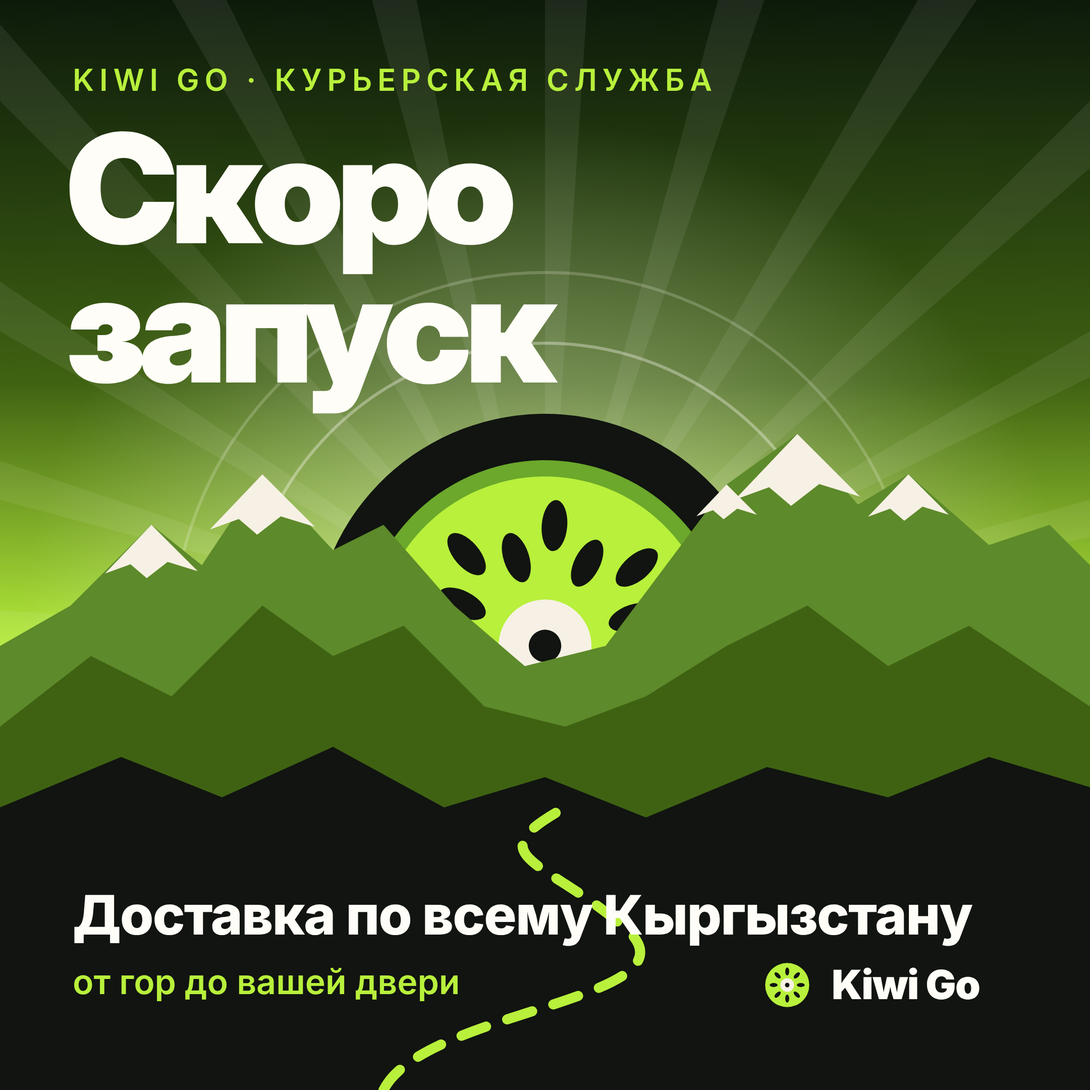
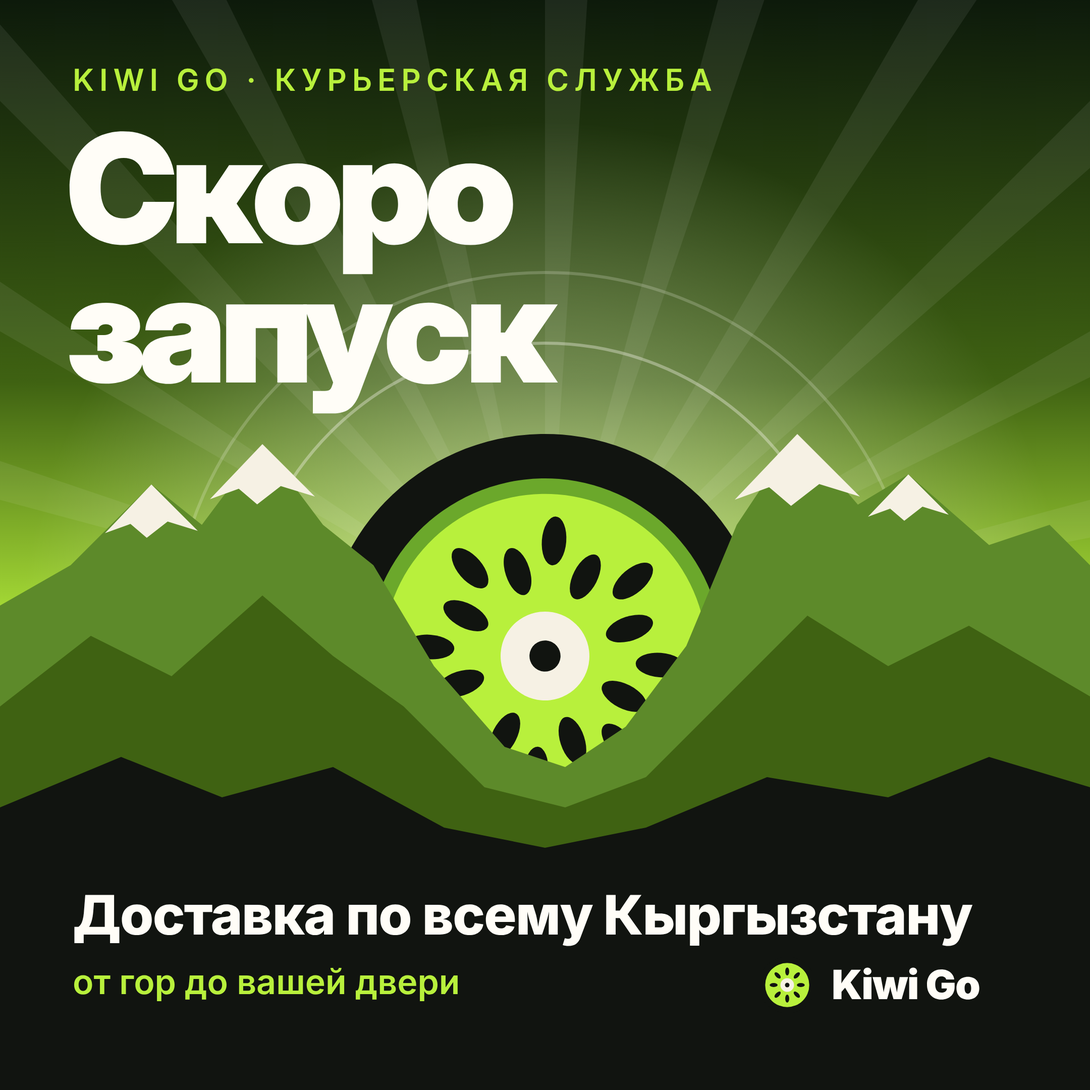
Add 5 creative Kiwi Go coming-soon posts + contact sheet
Claude-Session: https://claude.ai/code/session_01Lm7ffAAt72SNExNHGXPfa4

diff --git a/kiwi-go-soon/creative/build.js b/kiwi-go-soon/creative/build.js
@@ -63,9 +63,9 @@ const designs = [];
 {
   // mountain ridge polyline from a list of [x,y]; closed to the bottom
   const ridge = (pts, fill) => `<path d="M0 1080 L${pts.map(p => p.join(' ')).join(' L')} L1080 1080 Z" fill="${fill}"/>`;
-  const back = [[0,640],[70,600],[150,520],[200,560],[260,470],[330,545],[380,520],[450,600],[520,660],[600,640],[660,560],[720,480],[790,430],[850,500],[900,470],[980,540],[1040,520],[1080,560]];
-  const mid = [[0,720],[90,650],[170,690],[260,600],[330,650],[400,620],[480,700],[560,720],[640,690],[720,640],[800,600],[880,660],[960,620],[1080,700]];
-  const front = [[0,800],[120,750],[220,790],[330,740],[440,800],[540,770],[640,810],[760,760],[880,790],[980,750],[1080,780]];
+  const back = [[0,600],[70,560],[150,480],[200,520],[260,440],[320,520],[370,560],[430,660],[500,740],[560,760],[620,720],[680,640],[730,520],[790,430],[850,500],[900,470],[980,540],[1040,520],[1080,560]];
+  const mid = [[0,700],[90,630],[170,670],[260,590],[330,650],[400,700],[480,780],[560,800],[640,770],[720,690],[800,610],[880,660],[960,620],[1080,690]];
+  const front = [[0,800],[120,750],[220,790],[330,760],[440,820],[540,840],[640,820],[760,770],[880,790],[980,750],[1080,780]];
   // snow caps on back ridge peaks
   const cap = (x, y, w) => `<path d="M${x} ${y} L${x - w} ${y + w * 1.05} L${x - w * 0.45} ${y + w * 0.85} L${x - w * 0.1} ${y + w * 1.15} L${x + w * 0.35} ${y + w * 0.8} L${x + w} ${y + w * 1.0} Z" fill="${C.cream}"/>`;
   // rays
@@ -76,7 +76,7 @@ const designs = [];
     rays += `<path d="M540 640 L${540 + 1400 * Math.cos(a)} ${640 + 1400 * Math.sin(a)} L${540 + 1400 * Math.cos(a2)} ${640 + 1400 * Math.sin(a2)} Z"/>`;
   }
   // winding road on front layer
-  const road = 'M380 1080 C 420 1000, 700 990, 620 920 S 470 850, 560 800';
+  const road = 'M660 1080 C 640 1010, 620 990, 600 940 S 520 880, 545 845';
   designs.push({
     name: 'Рассвет над Тянь-Шанем',
     html: page('Kiwi Go — 01', `
@@ -95,13 +95,12 @@ const designs = [];
   <circle cx="540" cy="640" r="300" fill="none" stroke="${C.paper}" stroke-opacity="0.35" stroke-width="3"/>
   <circle cx="540" cy="640" r="370" fill="none" stroke="${C.paper}" stroke-opacity="0.2" stroke-width="3"/>
 </svg>
-${logo(460, 540, 640, -18)}
+${logo(440, 540, 650, -18)}
 <svg class="scene" width="1080" height="1080">
   ${ridge(back, '#5d8a2a')}
-  ${cap(150,520,46)}${cap(260,470,52)}${cap(790,430,62)}${cap(900,470,40)}${cap(720,480,30)}
+  ${cap(150,480,46)}${cap(260,440,52)}${cap(790,430,62)}${cap(900,470,40)}
   ${ridge(mid, C.green)}
   ${ridge(front, C.ink)}
-  <path d="${road}" fill="none" stroke="${C.lime}" stroke-width="10" stroke-linecap="round" stroke-dasharray="26 22"/>
 </svg>
 <div class="t" style="left:72px;top:64px;font-weight:600;font-size:30px;letter-spacing:0.18em;color:${C.lime}">KIWI GO · КУРЬЕРСКАЯ СЛУЖБА</div>
 <div class="t D" style="left:66px;top:118px;font-weight:900;font-size:150px;letter-spacing:-0.045em;color:${C.paper};line-height:0.92">Скоро<br>запуск</div>
@@ -142,8 +141,8 @@ ${wordmark(752, 948, C.paper, 56, 40)}
     <polygon points="${cx - s},${cy - s} ${cx - s + 40},${cy - s + 40} ${cx - s + 40},${cy + s - 40} ${cx - s},${cy + s}" fill="#8e6638" stroke-width="5"/>
     <!-- fragile stamp on right flap -->
     <g transform="translate(${cx + s + f / 2 + 4} ${cy}) rotate(90)" stroke="none">
-      <rect x="-118" y="-30" width="236" height="60" rx="8" fill="none" stroke="#B3261E" stroke-width="5"/>
-      <text x="0" y="13" text-anchor="middle" font-family="Inter" font-weight="900" font-size="36" fill="#B3261E" letter-spacing="2">ОСТОРОЖНО</text>
+      <rect x="-128" y="-28" width="256" height="56" rx="8" fill="none" stroke="#B3261E" stroke-width="5"/>
+      <text x="0" y="11" text-anchor="middle" font-family="Inter" font-weight="900" font-size="30" fill="#B3261E" letter-spacing="1">ОСТОРОЖНО</text>
     </g>
   </g>
 </svg>
@@ -151,46 +150,37 @@ ${logo(300, cx + 8, cy + 6, 12, 'filter:drop-shadow(0 18px 0 rgba(17,20,16,0.35)
 <div class="t D" style="left:64px;top:56px;font-weight:900;font-size:128px;letter-spacing:-0.045em">Что внутри?</div>
 <div class="t D" style="left:64px;top:920px;font-weight:900;font-size:92px;letter-spacing:-0.04em">Скоро узнаете.</div>
 <div class="t" style="left:68px;top:1022px;font-weight:700;font-size:28px;letter-spacing:0.02em;opacity:0.75">Kiwi Go — курьерская служба</div>
-<div class="abs" style="right:56px;top:72px;width:150px;height:150px;border-radius:50%;background:${C.ink};color:${C.lime};display:flex;align-items:center;justify-content:center;text-align:center;font-weight:900;font-size:26px;line-height:1.08;transform:rotate(12deg)">ОТКРОЙТЕ<br>ПЕРВЫМИ</div>
+<div class="abs" style="right:48px;top:60px;width:176px;height:176px;border-radius:50%;background:${C.ink};color:${C.lime};display:flex;align-items:center;justify-content:center;text-align:center;font-weight:900;font-size:26px;line-height:1.08;transform:rotate(12deg)">ОТКРОЙТЕ<br>ПЕРВЫМИ</div>
 `, C.lime),
   });
 }
 
-// ===== 03 — Kinetic type, wheel at speed =====
+// ===== 03 — Kinetic type: the wheel paints the word =====
 {
-  const rows = [
-    { t: 'СКОРО СКОРО СКОРО', x: -60, fill: false },
-    { t: 'СКОРО СКОРО СКОРО', x: -320, fill: false },
-    { t: 'СКОРО СКОРО СКОРО', x: -140, fill: true },
-    { t: 'СКОРО СКОРО СКОРО', x: -420, fill: false },
-  ];
-  const rowH = 186, y0 = 30;
-  const rowHtml = rows.map((r, i) => `<div class="t D row ${r.fill ? 'fill' : ''}" style="left:${r.x}px;top:${y0 + i * rowH}px">${r.t}</div>`).join('');
-  const wcx = 800, wd = 400, wcy = 840 - wd / 2 + 8; // wheel sits on the band
-  let lines = '';
-  const L = [[-150, 210, 22, C.lime], [-90, 300, 12, C.paper], [-20, 260, 28, C.lime], [50, 330, 12, C.paper], [120, 220, 22, C.lime]];
-  for (const [dy, len, h, c] of L) {
-    const y = wcy + dy, dx = Math.sqrt(Math.max(0, (wd / 2) ** 2 - dy ** 2));
-    const end = wcx - dx - 36;
-    lines += `<rect x="${end - len}" y="${y - h / 2}" width="${len}" height="${h}" rx="${h / 2}" fill="${c}"/>`;
-  }
+  const rowH = 186, y0 = 24;
+  const xs = [-60, -330, 24, -430];
+  const wcx = 860, wd = 310;
+  const fillRow = 2;
+  let rowHtml = '';
+  xs.forEach((x, i) => {
+    rowHtml += `<div class="t D row" style="left:${x}px;top:${y0 + i * rowH}px">СКОРО СКОРО СКОРО</div>`;
+    if (i === fillRow) rowHtml += `<div class="t D row fill" style="left:${x}px;top:${y0 + i * rowH}px;clip-path:inset(0 ${2400 - (wcx - x)}px 0 0)">СКОРО СКОРО СКОРО</div>`;
+  });
+  const wcy = y0 + fillRow * rowH + 104;
   designs.push({
-    name: 'Скорость шрифта',
+    name: 'Колесо красит слово',
     html: page('Kiwi Go — 03', `
 ${rowHtml}
 <svg class="scene" width="1080" height="1080">
+  <circle cx="${wcx}" cy="${wcy}" r="${wd / 2 + 22}" fill="${C.ink}"/>
   <rect x="0" y="840" width="1080" height="240" fill="${C.lime}"/>
-  <g fill="${C.ink}">${[0,1,2,3,4,5,6,7].map(i => `<rect x="${i * 150 - 40}" y="852" width="80" height="10" rx="5"/>`).join('')}</g>
-  <rect x="${wcx - wd / 2 - 40}" y="${wcy - wd / 2 - 40}" width="0" height="0"/>
-  <circle cx="${wcx}" cy="${wcy}" r="${wd / 2 + 26}" fill="${C.ink}"/>
-  ${lines}
 </svg>
 ${logo(wd, wcx, wcy, -32)}
-<div class="t D" style="left:64px;top:900px;font-weight:900;font-size:84px;letter-spacing:-0.04em;color:${C.ink}">Kiwi Go скоро в пути</div>
-<div class="t" style="left:68px;top:1000px;font-weight:700;font-size:34px;color:${C.ink}">Курьерская доставка по всему Кыргызстану</div>
+<div class="t D" style="left:64px;top:888px;font-weight:900;font-size:88px;letter-spacing:-0.04em;color:${C.ink}">Kiwi Go скоро в пути</div>
+<div class="t" style="left:68px;top:996px;font-weight:700;font-size:34px;color:${C.ink}">Курьерская доставка по всему Кыргызстану</div>
 `, C.ink, `
-.row{font-weight:900;font-style:italic;font-size:200px;letter-spacing:-0.035em;color:transparent;-webkit-text-stroke:3px ${C.lime};line-height:1}
-.row.fill{color:${C.lime};-webkit-text-stroke:0}
+.row{width:2400px;font-weight:900;font-style:italic;font-size:200px;letter-spacing:-0.035em;color:transparent;-webkit-text-stroke:3px ${C.lime};line-height:1}
+.row.fill{color:${C.lime};-webkit-text-stroke:3px ${C.lime}}
 `),
   });
 }
@@ -284,10 +274,10 @@ ${logo(wd, wcx, wcy, -32)}
   <div class="rule"></div>
   <div class="foot">Доставка по всему Кыргызстану</div>
 </div>
-<svg class="abs" style="left:640px;top:96px" width="360" height="200" viewBox="0 0 360 200"><path d="M100 104 C 180 30, 260 40, 360 0" fill="none" stroke="${C.cream}" stroke-width="5"/></svg>
-<div class="abs sticker"><div>Скоро<br>в продаже</div></div>
+<svg class="abs" style="left:640px;top:96px" width="360" height="200" viewBox="0 0 360 200"><path d="M113 140 C 170 50, 260 40, 360 0" fill="none" stroke="${C.cream}" stroke-width="5"/></svg>
+<div class="abs sticker"><div>Скоро<br>запуск!</div></div>
 `, C.peel, `
-.tag{left:150px;top:170px;width:700px;background:${C.paper};border-radius:36px;padding:56px 60px 50px;transform:rotate(-4deg);box-shadow:0 22px 0 rgba(17,20,16,0.35)}
+.tag{left:150px;top:190px;width:700px;background:${C.paper};border-radius:36px;padding:56px 60px 50px;transform:rotate(-4deg);box-shadow:0 22px 0 rgba(17,20,16,0.35)}
 .tag .hole{position:absolute;right:56px;top:46px;width:44px;height:44px;border-radius:50%;background:${C.peel};box-shadow:inset 0 0 0 7px ${C.sand}}
 .row1{display:flex;gap:18px;align-items:baseline;font-size:30px}
 .row1 span:first-child{font-weight:800;letter-spacing:0.14em;text-transform:uppercase;font-size:24px;color:${C.peel}}
@@ -297,8 +287,8 @@ ${logo(wd, wcx, wcy, -32)}
 .lab{font-weight:800;letter-spacing:0.14em;text-transform:uppercase;font-size:24px;color:${C.peel}}
 .price{font-weight:900;font-size:76px;letter-spacing:-0.035em;line-height:1;margin-top:12px}
 .foot{font-weight:700;font-size:32px}
-.sticker{left:690px;top:640px;width:250px;height:250px;border-radius:50%;background:${C.lime};border:7px solid ${C.ink};display:flex;align-items:center;justify-content:center;text-align:center;transform:rotate(12deg);box-shadow:0 14px 0 rgba(17,20,16,0.35)}
-.sticker div{font-weight:900;font-size:46px;letter-spacing:-0.03em;line-height:1.02}
+.sticker{left:740px;top:740px;width:240px;height:240px;border-radius:50%;background:${C.lime};border:7px solid ${C.ink};display:flex;align-items:center;justify-content:center;text-align:center;transform:rotate(12deg);box-shadow:0 14px 0 rgba(17,20,16,0.35)}
+.sticker div{font-weight:900;font-size:52px;letter-spacing:-0.03em;line-height:1.02}
 `),
   });
 }

diff --git a/kiwi-go-soon/creative/html/kiwi-go-creative-03.html b/kiwi-go-soon/creative/html/kiwi-go-creative-03.html
@@ -12,19 +12,16 @@ body{font-family:'Inter',sans-serif;color:#111410;position:relative;-webkit-font
 .wm span{font-weight:900;letter-spacing:-0.02em;line-height:1}
 svg.scene{position:absolute;left:0;top:0}
 
-.row{font-weight:900;font-style:italic;font-size:200px;letter-spacing:-0.035em;color:transparent;-webkit-text-stroke:3px #B8F03C;line-height:1}
-.row.fill{color:#B8F03C;-webkit-text-stroke:0}
+.row{width:2400px;font-weight:900;font-style:italic;font-size:200px;letter-spacing:-0.035em;color:transparent;-webkit-text-stroke:3px #B8F03C;line-height:1}
+.row.fill{color:#B8F03C;-webkit-text-stroke:3px #B8F03C}
 
 </style></head><body>
-<div class="t D row " style="left:-60px;top:30px">СКОРО СКОРО СКОРО</div><div class="t D row " style="left:-320px;top:216px">СКОРО СКОРО СКОРО</div><div class="t D row fill" style="left:-140px;top:402px">СКОРО СКОРО СКОРО</div><div class="t D row " style="left:-420px;top:588px">СКОРО СКОРО СКОРО</div>
+<div class="t D row" style="left:-60px;top:24px">СКОРО СКОРО СКОРО</div><div class="t D row" style="left:-330px;top:210px">СКОРО СКОРО СКОРО</div><div class="t D row" style="left:24px;top:396px">СКОРО СКОРО СКОРО</div><div class="t D row fill" style="left:24px;top:396px;clip-path:inset(0 1564px 0 0)">СКОРО СКОРО СКОРО</div><div class="t D row" style="left:-430px;top:582px">СКОРО СКОРО СКОРО</div>
 <svg class="scene" width="1080" height="1080">
+  <circle cx="860" cy="500" r="177" fill="#111410"/>
   <rect x="0" y="840" width="1080" height="240" fill="#B8F03C"/>
-  <g fill="#111410"><rect x="-40" y="852" width="80" height="10" rx="5"/><rect x="110" y="852" width="80" height="10" rx="5"/><rect x="260" y="852" width="80" height="10" rx="5"/><rect x="410" y="852" width="80" height="10" rx="5"/><rect x="560" y="852" width="80" height="10" rx="5"/><rect x="710" y="852" width="80" height="10" rx="5"/><rect x="860" y="852" width="80" height="10" rx="5"/><rect x="1010" y="852" width="80" height="10" rx="5"/></g>
-  <rect x="560" y="408" width="0" height="0"/>
-  <circle cx="800" cy="648" r="226" fill="#111410"/>
-  <rect x="421.71243444677043" y="487" width="210" height="22" rx="11" fill="#B8F03C"/><rect x="285.39428900508244" y="552" width="300" height="12" rx="6" fill="#FFFDF7"/><rect x="305.00251257867603" y="614" width="260" height="28" rx="14" fill="#B8F03C"/><rect x="240.35083268962921" y="692" width="330" height="12" rx="6" fill="#FFFDF7"/><rect x="384" y="757" width="220" height="22" rx="11" fill="#B8F03C"/>
 </svg>
-<svg class="abs" width="400" height="400" viewBox="-100 -100 200 200" style="left:600px;top:448px;transform:rotate(-32deg);"><circle r="100" fill="#111410"/><circle r="80" fill="#6BA82B"/><circle r="73" fill="#B8F03C"/><g fill="#111410"><ellipse cx="0" cy="-40" rx="5.5" ry="11" transform="rotate(0)"/><ellipse cx="0" cy="-52" rx="5.5" ry="11" transform="rotate(22.5)"/><ellipse cx="0" cy="-40" rx="5.5" ry="11" transform="rotate(45)"/><ellipse cx="0" cy="-52" rx="5.5" ry="11" transform="rotate(67.5)"/><ellipse cx="0" cy="-40" rx="5.5" ry="11" transform="rotate(90)"/><ellipse cx="0" cy="-52" rx="5.5" ry="11" transform="rotate(112.5)"/><ellipse cx="0" cy="-40" rx="5.5" ry="11" transform="rotate(135)"/><ellipse cx="0" cy="-52" rx="5.5" ry="11" transform="rotate(157.5)"/><ellipse cx="0" cy="-40" rx="5.5" ry="11" transform="rotate(180)"/><ellipse cx="0" cy="-52" rx="5.5" ry="11" transform="rotate(202.5)"/><ellipse cx="0" cy="-40" rx="5.5" ry="11" transform="rotate(225)"/><ellipse cx="0" cy="-52" rx="5.5" ry="11" transform="rotate(247.5)"/><ellipse cx="0" cy="-40" rx="5.5" ry="11" transform="rotate(270)"/><ellipse cx="0" cy="-52" rx="5.5" ry="11" transform="rotate(292.5)"/><ellipse cx="0" cy="-40" rx="5.5" ry="11" transform="rotate(315)"/><ellipse cx="0" cy="-52" rx="5.5" ry="11" transform="rotate(337.5)"/></g><circle r="20" fill="#F6F1E4"/><circle r="7" fill="#111410"/></svg>
-<div class="t D" style="left:64px;top:900px;font-weight:900;font-size:84px;letter-spacing:-0.04em;color:#111410">Kiwi Go скоро в пути</div>
-<div class="t" style="left:68px;top:1000px;font-weight:700;font-size:34px;color:#111410">Курьерская доставка по всему Кыргызстану</div>
+<svg class="abs" width="310" height="310" viewBox="-100 -100 200 200" style="left:705px;top:345px;transform:rotate(-32deg);"><circle r="100" fill="#111410"/><circle r="80" fill="#6BA82B"/><circle r="73" fill="#B8F03C"/><g fill="#111410"><ellipse cx="0" cy="-40" rx="5.5" ry="11" transform="rotate(0)"/><ellipse cx="0" cy="-52" rx="5.5" ry="11" transform="rotate(22.5)"/><ellipse cx="0" cy="-40" rx="5.5" ry="11" transform="rotate(45)"/><ellipse cx="0" cy="-52" rx="5.5" ry="11" transform="rotate(67.5)"/><ellipse cx="0" cy="-40" rx="5.5" ry="11" transform="rotate(90)"/><ellipse cx="0" cy="-52" rx="5.5" ry="11" transform="rotate(112.5)"/><ellipse cx="0" cy="-40" rx="5.5" ry="11" transform="rotate(135)"/><ellipse cx="0" cy="-52" rx="5.5" ry="11" transform="rotate(157.5)"/><ellipse cx="0" cy="-40" rx="5.5" ry="11" transform="rotate(180)"/><ellipse cx="0" cy="-52" rx="5.5" ry="11" transform="rotate(202.5)"/><ellipse cx="0" cy="-40" rx="5.5" ry="11" transform="rotate(225)"/><ellipse cx="0" cy="-52" rx="5.5" ry="11" transform="rotate(247.5)"/><ellipse cx="0" cy="-40" rx="5.5" ry="11" transform="rotate(270)"/><ellipse cx="0" cy="-52" rx="5.5" ry="11" transform="rotate(292.5)"/><ellipse cx="0" cy="-40" rx="5.5" ry="11" transform="rotate(315)"/><ellipse cx="0" cy="-52" rx="5.5" ry="11" transform="rotate(337.5)"/></g><circle r="20" fill="#F6F1E4"/><circle r="7" fill="#111410"/></svg>
+<div class="t D" style="left:64px;top:888px;font-weight:900;font-size:88px;letter-spacing:-0.04em;color:#111410">Kiwi Go скоро в пути</div>
+<div class="t" style="left:68px;top:996px;font-weight:700;font-size:34px;color:#111410">Курьерская доставка по всему Кыргызстану</div>
 </body></html>

diff --git a/kiwi-go-soon/creative/html/kiwi-go-creative-01.html b/kiwi-go-soon/creative/html/kiwi-go-creative-01.html
@@ -28,13 +28,12 @@ svg.scene{position:absolute;left:0;top:0}
   <circle cx="540" cy="640" r="300" fill="none" stroke="#FFFDF7" stroke-opacity="0.35" stroke-width="3"/>
   <circle cx="540" cy="640" r="370" fill="none" stroke="#FFFDF7" stroke-opacity="0.2" stroke-width="3"/>
 </svg>
-<svg class="abs" width="460" height="460" viewBox="-100 -100 200 200" style="left:310px;top:410px;transform:rotate(-18deg);"><circle r="100" fill="#111410"/><circle r="80" fill="#6BA82B"/><circle r="73" fill="#B8F03C"/><g fill="#111410"><ellipse cx="0" cy="-40" rx="5.5" ry="11" transform="rotate(0)"/><ellipse cx="0" cy="-52" rx="5.5" ry="11" transform="rotate(22.5)"/><ellipse cx="0" cy="-40" rx="5.5" ry="11" transform="rotate(45)"/><ellipse cx="0" cy="-52" rx="5.5" ry="11" transform="rotate(67.5)"/><ellipse cx="0" cy="-40" rx="5.5" ry="11" transform="rotate(90)"/><ellipse cx="0" cy="-52" rx="5.5" ry="11" transform="rotate(112.5)"/><ellipse cx="0" cy="-40" rx="5.5" ry="11" transform="rotate(135)"/><ellipse cx="0" cy="-52" rx="5.5" ry="11" transform="rotate(157.5)"/><ellipse cx="0" cy="-40" rx="5.5" ry="11" transform="rotate(180)"/><ellipse cx="0" cy="-52" rx="5.5" ry="11" transform="rotate(202.5)"/><ellipse cx="0" cy="-40" rx="5.5" ry="11" transform="rotate(225)"/><ellipse cx="0" cy="-52" rx="5.5" ry="11" transform="rotate(247.5)"/><ellipse cx="0" cy="-40" rx="5.5" ry="11" transform="rotate(270)"/><ellipse cx="0" cy="-52" rx="5.5" ry="11" transform="rotate(292.5)"/><ellipse cx="0" cy="-40" rx="5.5" ry="11" transform="rotate(315)"/><ellipse cx="0" cy="-52" rx="5.5" ry="11" transform="rotate(337.5)"/></g><circle r="20" fill="#F6F1E4"/><circle r="7" fill="#111410"/></svg>
+<svg class="abs" width="440" height="440" viewBox="-100 -100 200 200" style="left:320px;top:430px;transform:rotate(-18deg);"><circle r="100" fill="#111410"/><circle r="80" fill="#6BA82B"/><circle r="73" fill="#B8F03C"/><g fill="#111410"><ellipse cx="0" cy="-40" rx="5.5" ry="11" transform="rotate(0)"/><ellipse cx="0" cy="-52" rx="5.5" ry="11" transform="rotate(22.5)"/><ellipse cx="0" cy="-40" rx="5.5" ry="11" transform="rotate(45)"/><ellipse cx="0" cy="-52" rx="5.5" ry="11" transform="rotate(67.5)"/><ellipse cx="0" cy="-40" rx="5.5" ry="11" transform="rotate(90)"/><ellipse cx="0" cy="-52" rx="5.5" ry="11" transform="rotate(112.5)"/><ellipse cx="0" cy="-40" rx="5.5" ry="11" transform="rotate(135)"/><ellipse cx="0" cy="-52" rx="5.5" ry="11" transform="rotate(157.5)"/><ellipse cx="0" cy="-40" rx="5.5" ry="11" transform="rotate(180)"/><ellipse cx="0" cy="-52" rx="5.5" ry="11" transform="rotate(202.5)"/><ellipse cx="0" cy="-40" rx="5.5" ry="11" transform="rotate(225)"/><ellipse cx="0" cy="-52" rx="5.5" ry="11" transform="rotate(247.5)"/><ellipse cx="0" cy="-40" rx="5.5" ry="11" transform="rotate(270)"/><ellipse cx="0" cy="-52" rx="5.5" ry="11" transform="rotate(292.5)"/><ellipse cx="0" cy="-40" rx="5.5" ry="11" transform="rotate(315)"/><ellipse cx="0" cy="-52" rx="5.5" ry="11" transform="rotate(337.5)"/></g><circle r="20" fill="#F6F1E4"/><circle r="7" fill="#111410"/></svg>
 <svg class="scene" width="1080" height="1080">
-  <path d="M0 1080 L0 640 L70 600 L150 520 L200 560 L260 470 L330 545 L380 520 L450 600 L520 660 L600 640 L660 560 L720 480 L790 430 L850 500 L900 470 L980 540 L1040 520 L1080 560 L1080 1080 Z" fill="#5d8a2a"/>
-  <path d="M150 520 L104 568.3 L129.3 559.1 L145.4 572.9 L166.1 556.8 L196 566 Z" fill="#F6F1E4"/><path d="M260 470 L208 524.6 L236.6 514.2 L254.8 529.8 L278.2 511.6 L312 522 Z" fill="#F6F1E4"/><path d="M790 430 L728 495.1 L762.1 482.7 L783.8 501.3 L811.7 479.6 L852 492 Z" fill="#F6F1E4"/><path d="M900 470 L860 512 L882 504 L896 516 L914 502 L940 510 Z" fill="#F6F1E4"/><path d="M720 480 L690 511.5 L706.5 505.5 L717 514.5 L730.5 504 L750 510 Z" fill="#F6F1E4"/>
-  <path d="M0 1080 L0 720 L90 650 L170 690 L260 600 L330 650 L400 620 L480 700 L560 720 L640 690 L720 640 L800 600 L880 660 L960 620 L1080 700 L1080 1080 Z" fill="#3F6212"/>
-  <path d="M0 1080 L0 800 L120 750 L220 790 L330 740 L440 800 L540 770 L640 810 L760 760 L880 790 L980 750 L1080 780 L1080 1080 Z" fill="#111410"/>
-  <path d="M380 1080 C 420 1000, 700 990, 620 920 S 470 850, 560 800" fill="none" stroke="#B8F03C" stroke-width="10" stroke-linecap="round" stroke-dasharray="26 22"/>
+  <path d="M0 1080 L0 600 L70 560 L150 480 L200 520 L260 440 L320 520 L370 560 L430 660 L500 740 L560 760 L620 720 L680 640 L730 520 L790 430 L850 500 L900 470 L980 540 L1040 520 L1080 560 L1080 1080 Z" fill="#5d8a2a"/>
+  <path d="M150 480 L104 528.3 L129.3 519.1 L145.4 532.9 L166.1 516.8 L196 526 Z" fill="#F6F1E4"/><path d="M260 440 L208 494.6 L236.6 484.2 L254.8 499.8 L278.2 481.6 L312 492 Z" fill="#F6F1E4"/><path d="M790 430 L728 495.1 L762.1 482.7 L783.8 501.3 L811.7 479.6 L852 492 Z" fill="#F6F1E4"/><path d="M900 470 L860 512 L882 504 L896 516 L914 502 L940 510 Z" fill="#F6F1E4"/>
+  <path d="M0 1080 L0 700 L90 630 L170 670 L260 590 L330 650 L400 700 L480 780 L560 800 L640 770 L720 690 L800 610 L880 660 L960 620 L1080 690 L1080 1080 Z" fill="#3F6212"/>
+  <path d="M0 1080 L0 800 L120 750 L220 790 L330 760 L440 820 L540 840 L640 820 L760 770 L880 790 L980 750 L1080 780 L1080 1080 Z" fill="#111410"/>
 </svg>
 <div class="t" style="left:72px;top:64px;font-weight:600;font-size:30px;letter-spacing:0.18em;color:#B8F03C">KIWI GO · КУРЬЕРСКАЯ СЛУЖБА</div>
 <div class="t D" style="left:66px;top:118px;font-weight:900;font-size:150px;letter-spacing:-0.045em;color:#FFFDF7;line-height:0.92">Скоро<br>запуск</div>

diff --git a/kiwi-go-soon/creative/html/kiwi-go-creative-05.html b/kiwi-go-soon/creative/html/kiwi-go-creative-05.html
@@ -12,7 +12,7 @@ body{font-family:'Inter',sans-serif;color:#111410;position:relative;-webkit-font
 .wm span{font-weight:900;letter-spacing:-0.02em;line-height:1}
 svg.scene{position:absolute;left:0;top:0}
 
-.tag{left:150px;top:170px;width:700px;background:#FFFDF7;border-radius:36px;padding:56px 60px 50px;transform:rotate(-4deg);box-shadow:0 22px 0 rgba(17,20,16,0.35)}
+.tag{left:150px;top:190px;width:700px;background:#FFFDF7;border-radius:36px;padding:56px 60px 50px;transform:rotate(-4deg);box-shadow:0 22px 0 rgba(17,20,16,0.35)}
 .tag .hole{position:absolute;right:56px;top:46px;width:44px;height:44px;border-radius:50%;background:#7A5A3C;box-shadow:inset 0 0 0 7px #ECE6D6}
 .row1{display:flex;gap:18px;align-items:baseline;font-size:30px}
 .row1 span:first-child{font-weight:800;letter-spacing:0.14em;text-transform:uppercase;font-size:24px;color:#7A5A3C}
@@ -22,8 +22,8 @@ svg.scene{position:absolute;left:0;top:0}
 .lab{font-weight:800;letter-spacing:0.14em;text-transform:uppercase;font-size:24px;color:#7A5A3C}
 .price{font-weight:900;font-size:76px;letter-spacing:-0.035em;line-height:1;margin-top:12px}
 .foot{font-weight:700;font-size:32px}
-.sticker{left:690px;top:640px;width:250px;height:250px;border-radius:50%;background:#B8F03C;border:7px solid #111410;display:flex;align-items:center;justify-content:center;text-align:center;transform:rotate(12deg);box-shadow:0 14px 0 rgba(17,20,16,0.35)}
-.sticker div{font-weight:900;font-size:46px;letter-spacing:-0.03em;line-height:1.02}
+.sticker{left:740px;top:740px;width:240px;height:240px;border-radius:50%;background:#B8F03C;border:7px solid #111410;display:flex;align-items:center;justify-content:center;text-align:center;transform:rotate(12deg);box-shadow:0 14px 0 rgba(17,20,16,0.35)}
+.sticker div{font-weight:900;font-size:52px;letter-spacing:-0.03em;line-height:1.02}
 
 </style></head><body>
 <svg class="scene" width="1080" height="1080">
@@ -41,6 +41,6 @@ svg.scene{position:absolute;left:0;top:0}
   <div class="rule"></div>
   <div class="foot">Доставка по всему Кыргызстану</div>
 </div>
-<svg class="abs" style="left:640px;top:96px" width="360" height="200" viewBox="0 0 360 200"><path d="M100 104 C 180 30, 260 40, 360 0" fill="none" stroke="#F6F1E4" stroke-width="5"/></svg>
-<div class="abs sticker"><div>Скоро<br>в продаже</div></div>
+<svg class="abs" style="left:640px;top:96px" width="360" height="200" viewBox="0 0 360 200"><path d="M113 140 C 170 50, 260 40, 360 0" fill="none" stroke="#F6F1E4" stroke-width="5"/></svg>
+<div class="abs sticker"><div>Скоро<br>запуск!</div></div>
 </body></html>

diff --git a/kiwi-go-soon/creative/html/kiwi-go-creative-02.html b/kiwi-go-soon/creative/html/kiwi-go-creative-02.html
@@ -31,8 +31,8 @@ svg.scene{position:absolute;left:0;top:0}
     <polygon points="350,400 390,440 390,740 350,780" fill="#8e6638" stroke-width="5"/>
     <!-- fragile stamp on right flap -->
     <g transform="translate(809 590) rotate(90)" stroke="none">
-      <rect x="-118" y="-30" width="236" height="60" rx="8" fill="none" stroke="#B3261E" stroke-width="5"/>
-      <text x="0" y="13" text-anchor="middle" font-family="Inter" font-weight="900" font-size="36" fill="#B3261E" letter-spacing="2">ОСТОРОЖНО</text>
+      <rect x="-128" y="-28" width="256" height="56" rx="8" fill="none" stroke="#B3261E" stroke-width="5"/>
+      <text x="0" y="11" text-anchor="middle" font-family="Inter" font-weight="900" font-size="30" fill="#B3261E" letter-spacing="1">ОСТОРОЖНО</text>
     </g>
   </g>
 </svg>
@@ -40,5 +40,5 @@ svg.scene{position:absolute;left:0;top:0}
 <div class="t D" style="left:64px;top:56px;font-weight:900;font-size:128px;letter-spacing:-0.045em">Что внутри?</div>
 <div class="t D" style="left:64px;top:920px;font-weight:900;font-size:92px;letter-spacing:-0.04em">Скоро узнаете.</div>
 <div class="t" style="left:68px;top:1022px;font-weight:700;font-size:28px;letter-spacing:0.02em;opacity:0.75">Kiwi Go — курьерская служба</div>
-<div class="abs" style="right:56px;top:72px;width:150px;height:150px;border-radius:50%;background:#111410;color:#B8F03C;display:flex;align-items:center;justify-content:center;text-align:center;font-weight:900;font-size:26px;line-height:1.08;transform:rotate(12deg)">ОТКРОЙТЕ<br>ПЕРВЫМИ</div>
+<div class="abs" style="right:48px;top:60px;width:176px;height:176px;border-radius:50%;background:#111410;color:#B8F03C;display:flex;align-items:center;justify-content:center;text-align:center;font-weight:900;font-size:26px;line-height:1.08;transform:rotate(12deg)">ОТКРОЙТЕ<br>ПЕРВЫМИ</div>
 </body></html>

diff --git a/kiwi-go-soon/creative/contact.py b/kiwi-go-soon/creative/contact.py
@@ -1,0 +1,12 @@
+from PIL import Image, ImageDraw, ImageFont
+T, G, M, LAB = 640, 48, 64, 120
+W = M*2 + T*5 + G*4; H = M + T + LAB
+sheet = Image.new('RGB', (W, H), (0x11, 0x14, 0x10))
+d = ImageDraw.Draw(sheet)
+font = ImageFont.truetype('../fonts/Inter-Black.otf', 64)
+for i in range(5):
+    im = Image.open(f'kiwi-go-creative-0{i+1}.png').convert('RGB').resize((T, T), Image.LANCZOS)
+    x = M + i*(T+G)
+    sheet.paste(im, (x, M))
+    d.text((x + T/2, M + T + LAB/2), f'0{i+1}', font=font, fill=(0xB8,0xF0,0x3C), anchor='mm')
+sheet.save('contact-sheet.png'); print(sheet.size)
